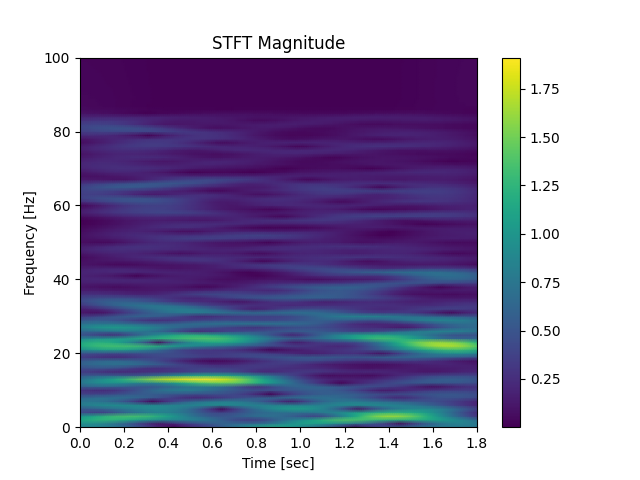
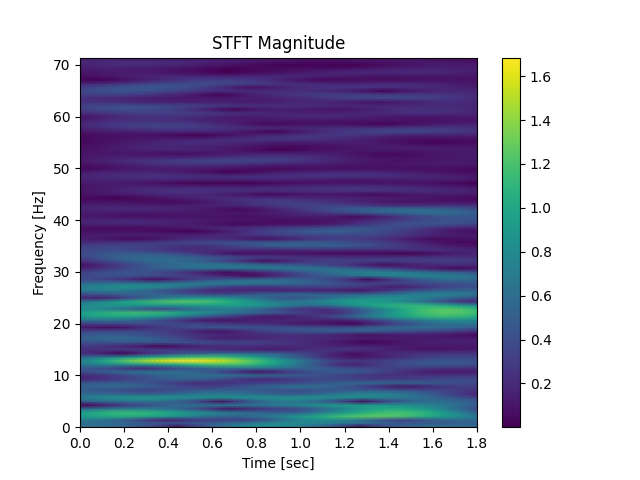
Config edited

diff --git a/plot_test_acc.py b/plot_test_acc.py
@@ -8,18 +8,20 @@ from numpy import array
 config = Config()
 
 filePath = './out/'
-#csv_files = os.listdir(filePath)
+csv_files = os.listdir(filePath)
 
 test_acc  = {}
 valid_acc = {}
 train_acc = {}
 
-for train_idx in config.all_subjects:
-    with open(filePath+"test_results_"+str(train_idx)+".0.csv", newline='') as f:
+#for train_idx in config.all_subjects:
+#    with open(filePath+"test_results_"+str(train_idx)+".0.csv", newline='') as f:
+for files in csv_files:
+    with open(filePath+files, newline='') as f:
            data = list(csv.reader(f))
            train_acc[data[2][2][:-2]] = float(data[1][1])
            test_acc[data[2][2][:-2]]  = float(data[2][1])
-           valid_acc[data[3][2][:-2]] = float(data[3][1])
+           valid_acc[data[2][2][:-2]] = float(data[3][1])
 
 print(array([train_acc[k] for k in train_acc]).mean())
 print(array([train_acc[k] for k in train_acc]).std())

diff --git a/utils/config.py b/utils/config.py
@@ -19,9 +19,9 @@ class Config:
 
           # STFT Hyper-parameters
           self.fs          = 1000
-          self.nperseg     = 1100
-          self.noverlap    = 990
-          self.freq_cut    = 21
+          self.nperseg     = 1400
+          self.noverlap    = 1380
+          self.freq_cut    = 101
 #          self.nTimeBins   = 2*(self.window_len - self.nperseg) // (self.nperseg - self.noverlap) + 1
           self.nTimeBins   = 18
     
